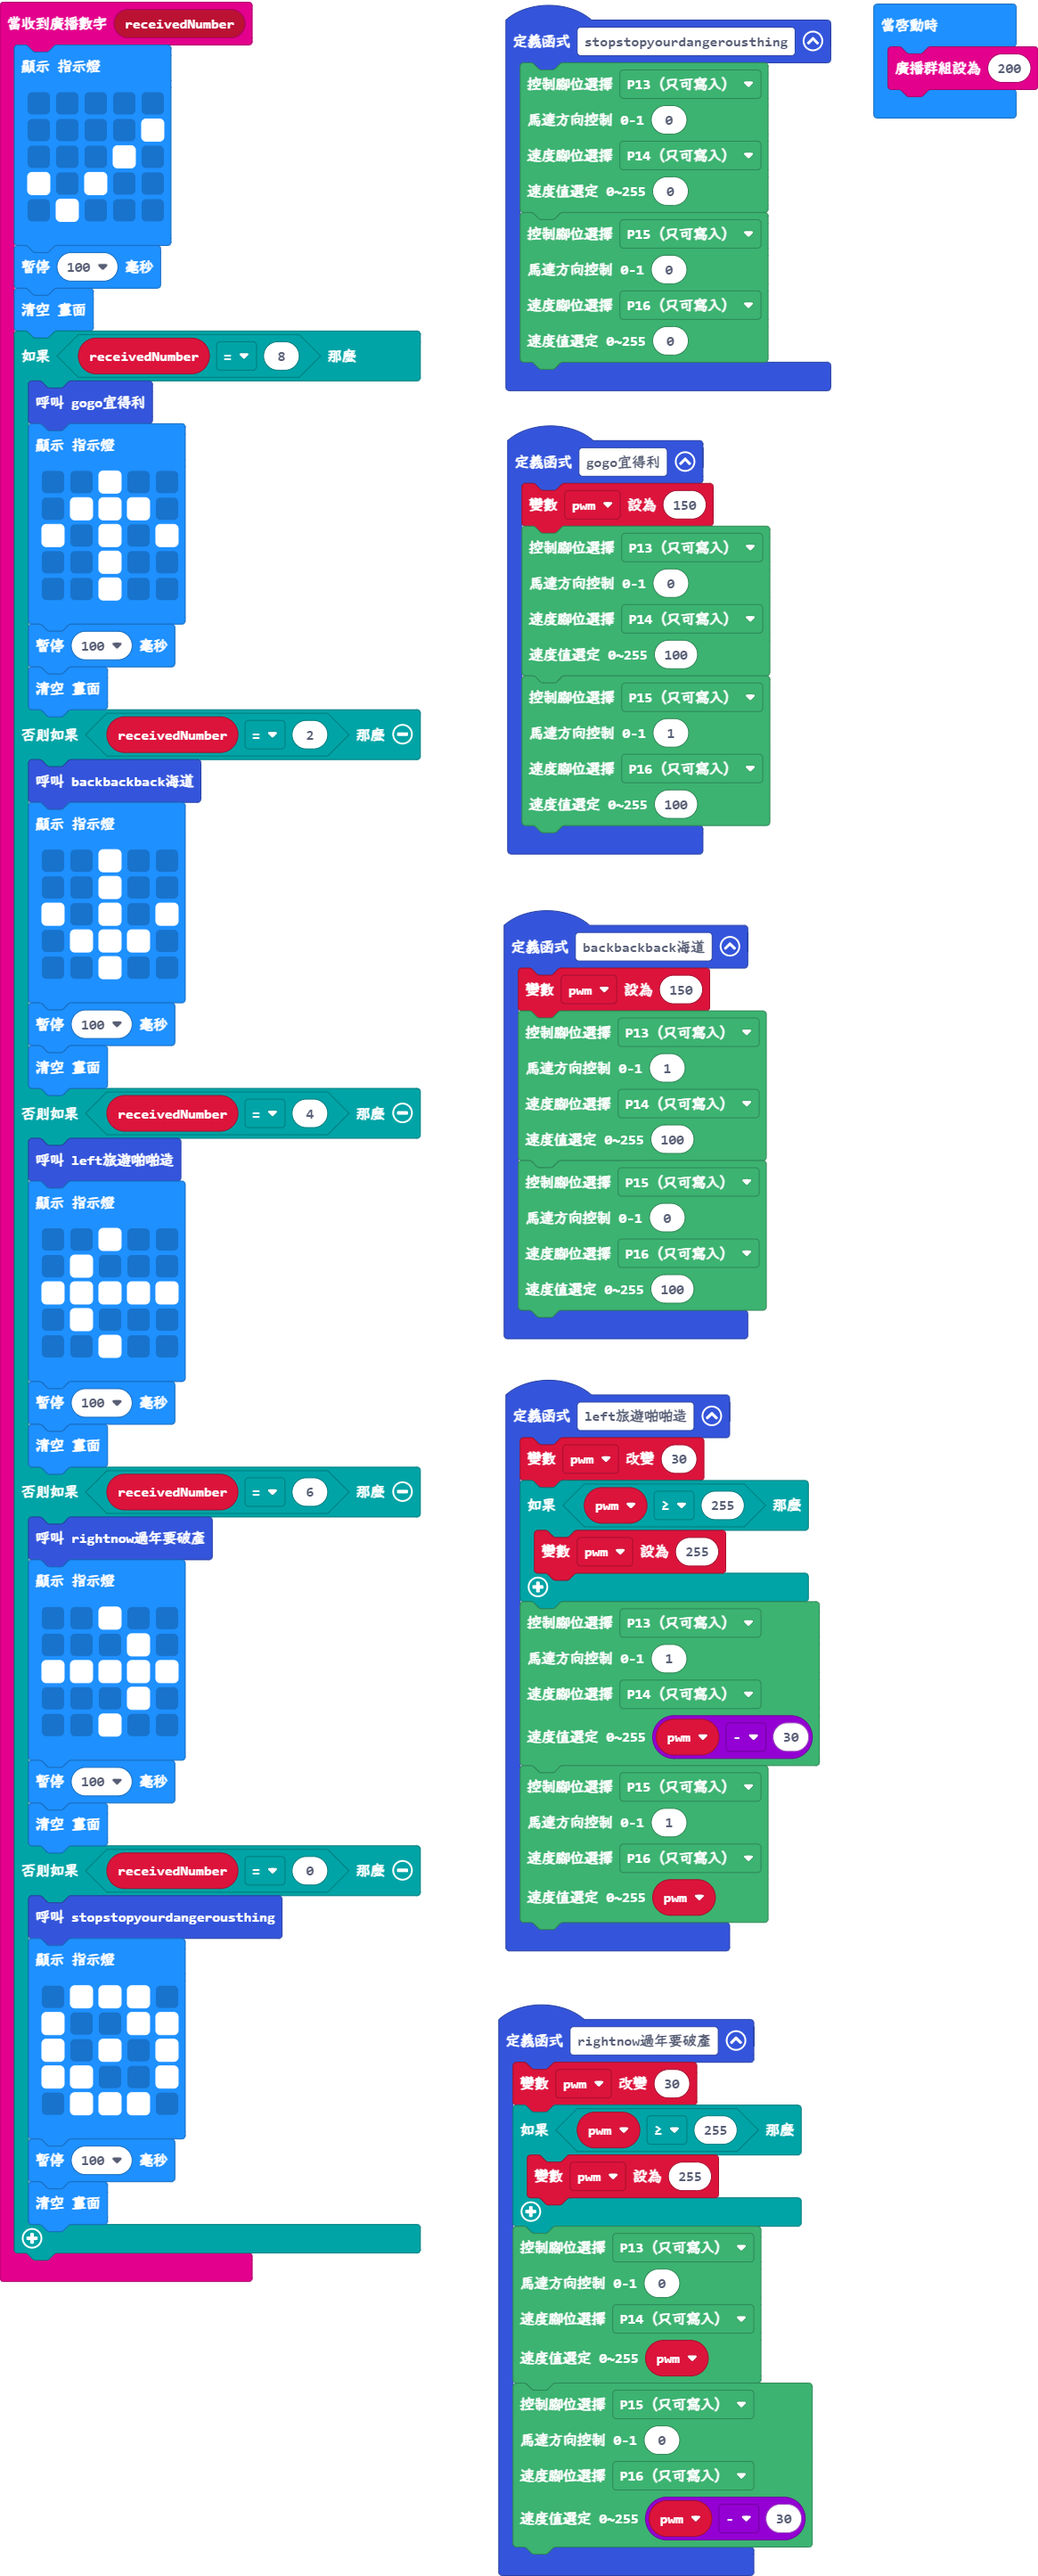
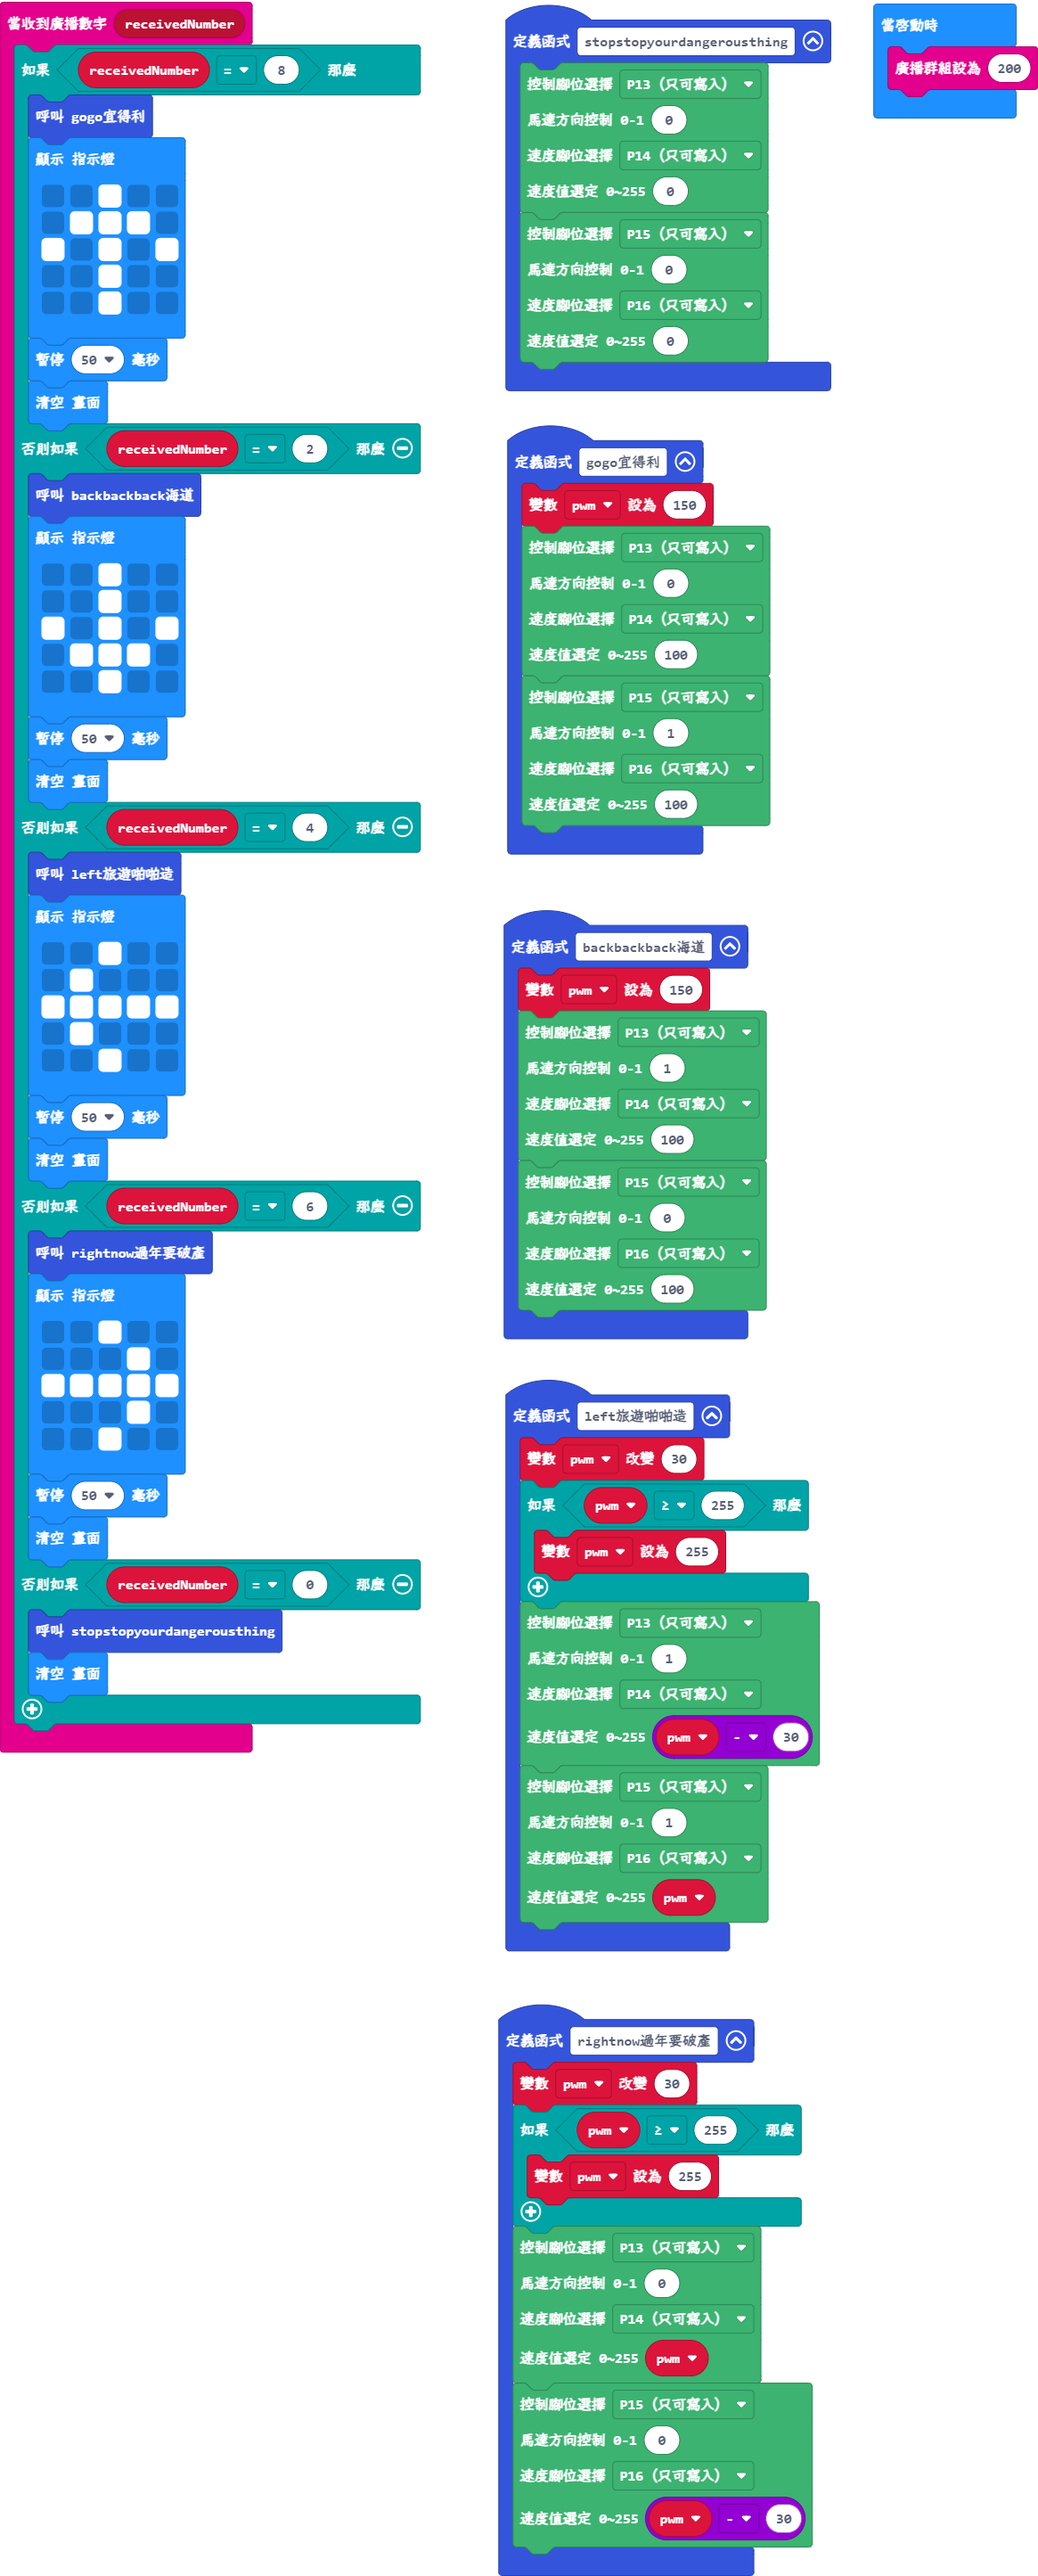
更新 main.blocks, main.ts

Changed region(s): [[0.0, 0.0, 0.4017, 0.9031]]

diff --git a/main.ts b/main.ts
@@ -14,15 +14,6 @@ function backbackback海道 () {
     )
 }
 radio.onReceivedNumber(function (receivedNumber) {
-    basic.showLeds(`
-        . . . . .
-        . . . . #
-        . . . # .
-        # . # . .
-        . # . . .
-        `)
-    basic.pause(100)
-    basic.clearScreen()
     if (receivedNumber == 8) {
         gogo宜得利()
         basic.showLeds(`
@@ -32,7 +23,7 @@ radio.onReceivedNumber(function (receivedNumber) {
             . . # . .
             . . # . .
             `)
-        basic.pause(100)
+        basic.pause(50)
         basic.clearScreen()
     } else if (receivedNumber == 2) {
         backbackback海道()
@@ -43,7 +34,7 @@ radio.onReceivedNumber(function (receivedNumber) {
             . # # # .
             . . # . .
             `)
-        basic.pause(100)
+        basic.pause(50)
         basic.clearScreen()
     } else if (receivedNumber == 4) {
         left旅遊啪啪造()
@@ -54,7 +45,7 @@ radio.onReceivedNumber(function (receivedNumber) {
             . # . . .
             . . # . .
             `)
-        basic.pause(100)
+        basic.pause(50)
         basic.clearScreen()
     } else if (receivedNumber == 6) {
         rightnow過年要破產()
@@ -65,18 +56,10 @@ radio.onReceivedNumber(function (receivedNumber) {
             . . . # .
             . . # . .
             `)
-        basic.pause(100)
+        basic.pause(50)
         basic.clearScreen()
     } else if (receivedNumber == 0) {
         stopstopyourdangerousthing()
-        basic.showLeds(`
-            . # # # .
-            # . . # #
-            # . # . #
-            # # . . #
-            . # # # .
-            `)
-        basic.pause(100)
         basic.clearScreen()
     }
 })
